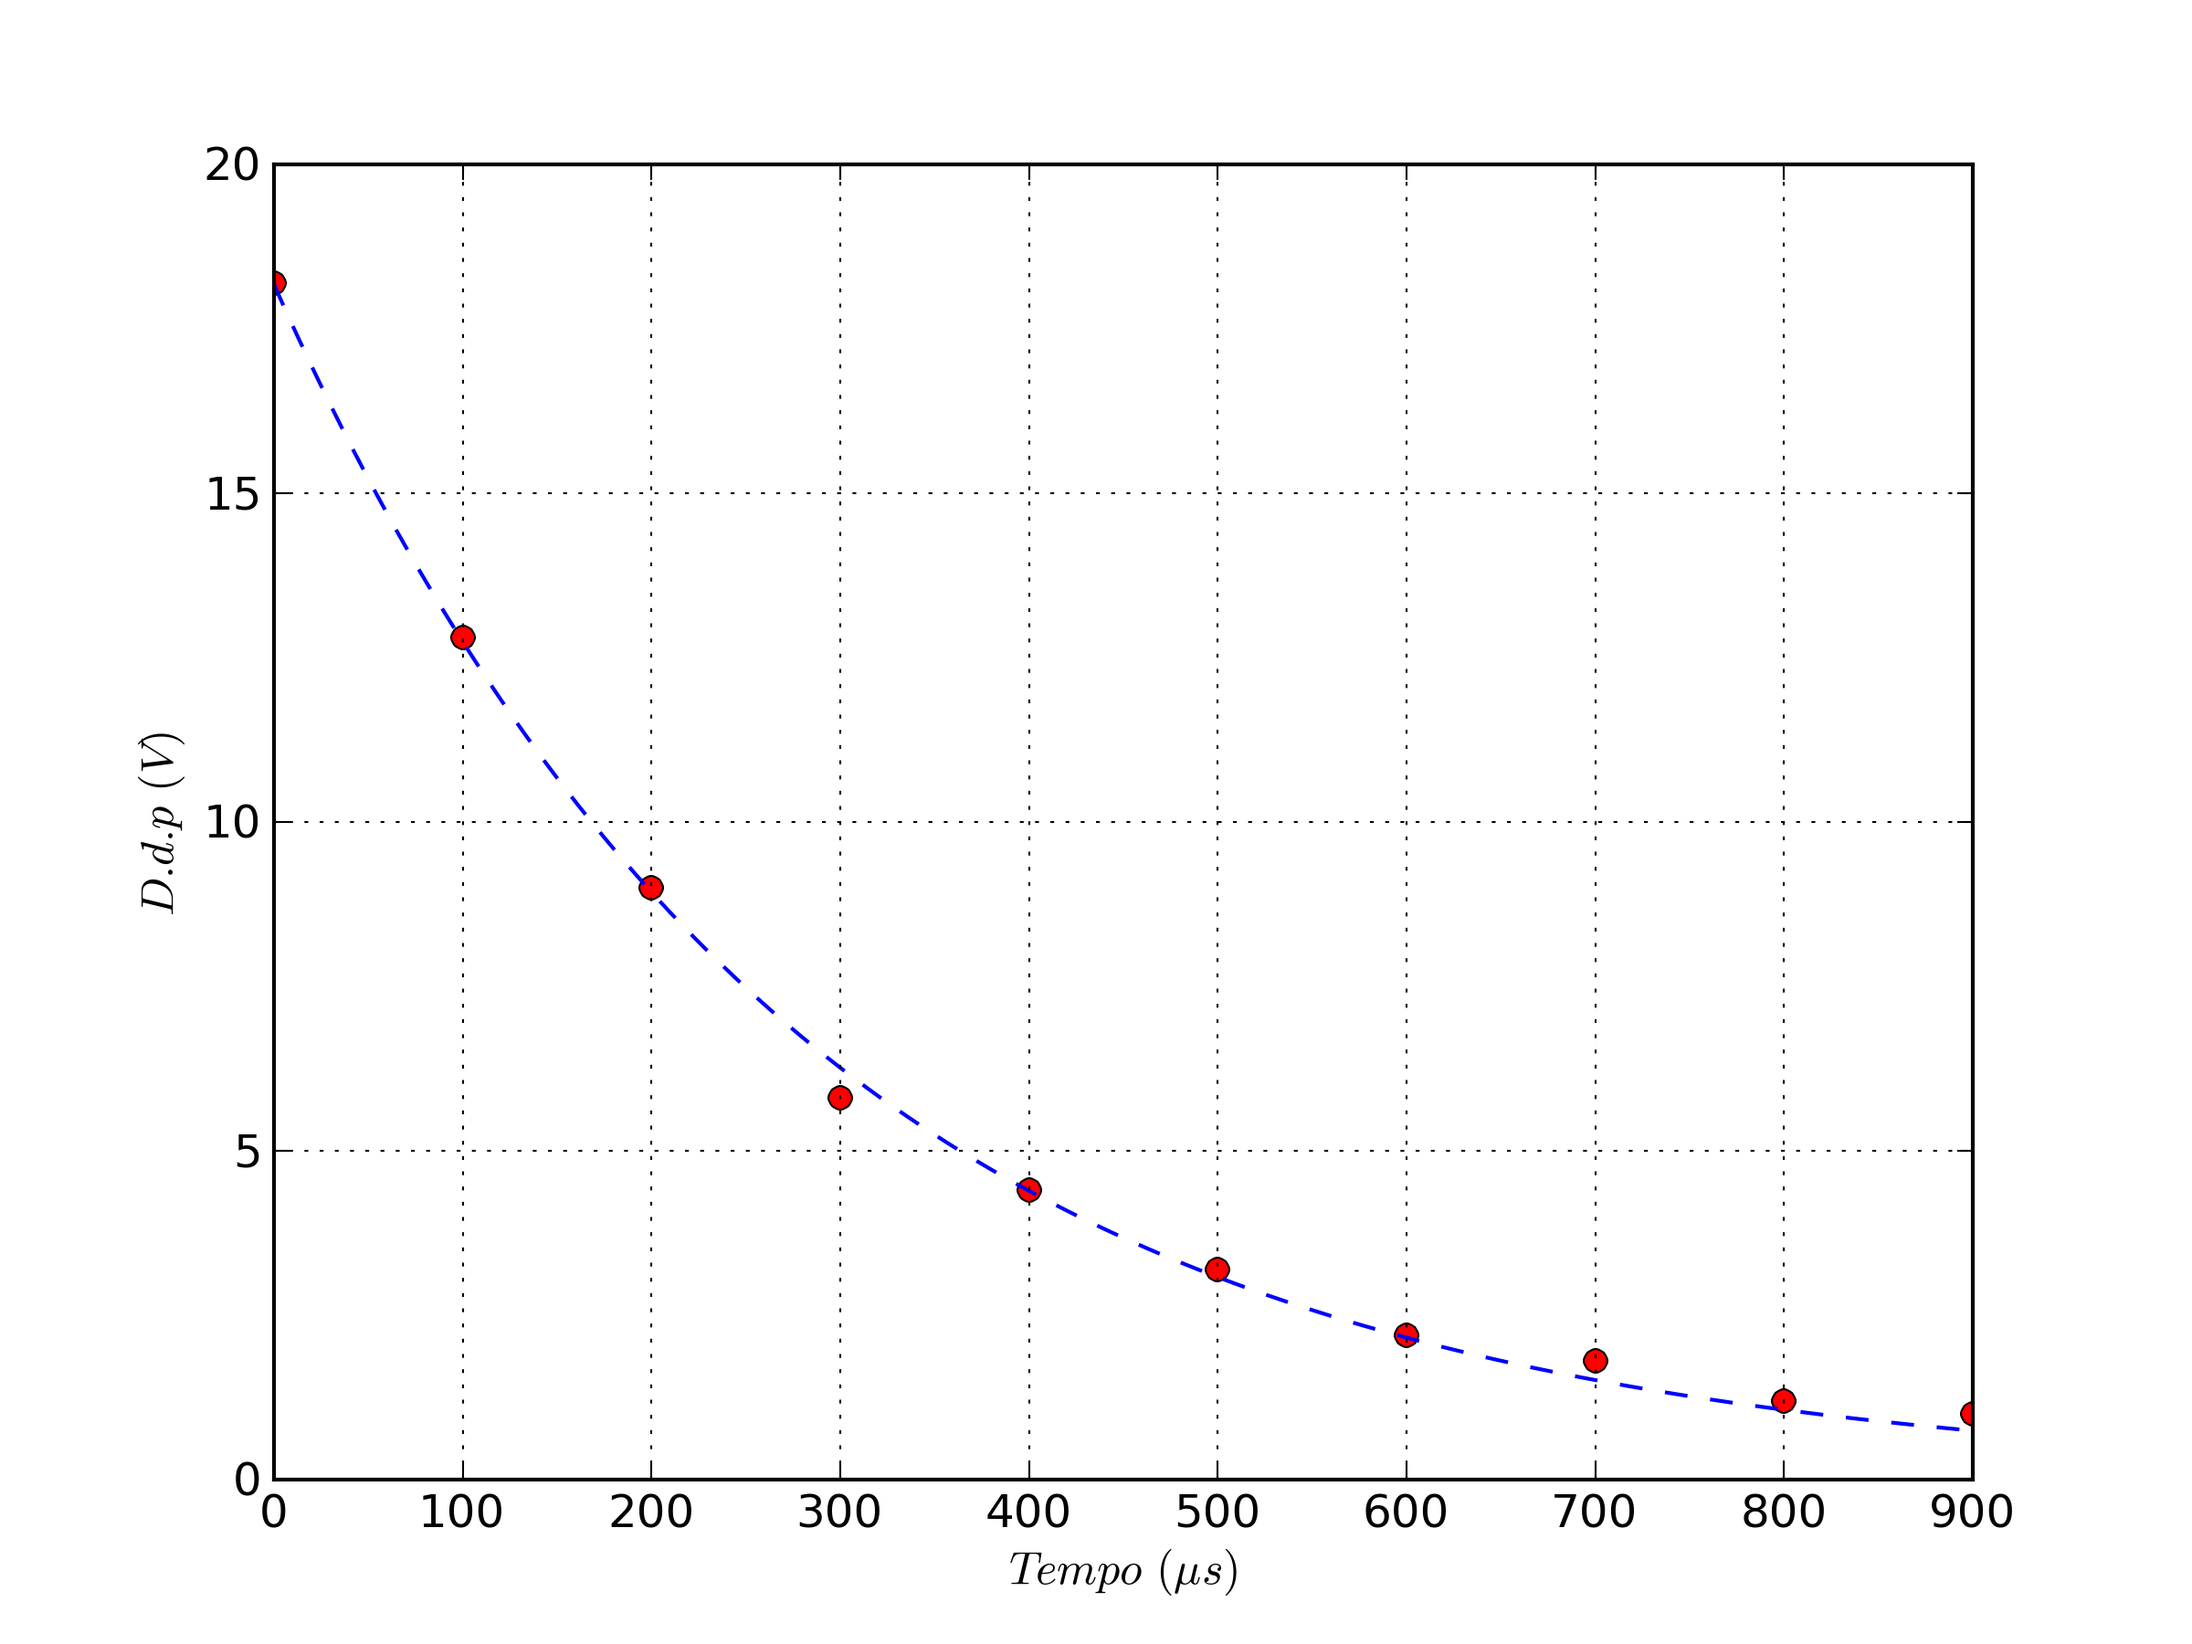
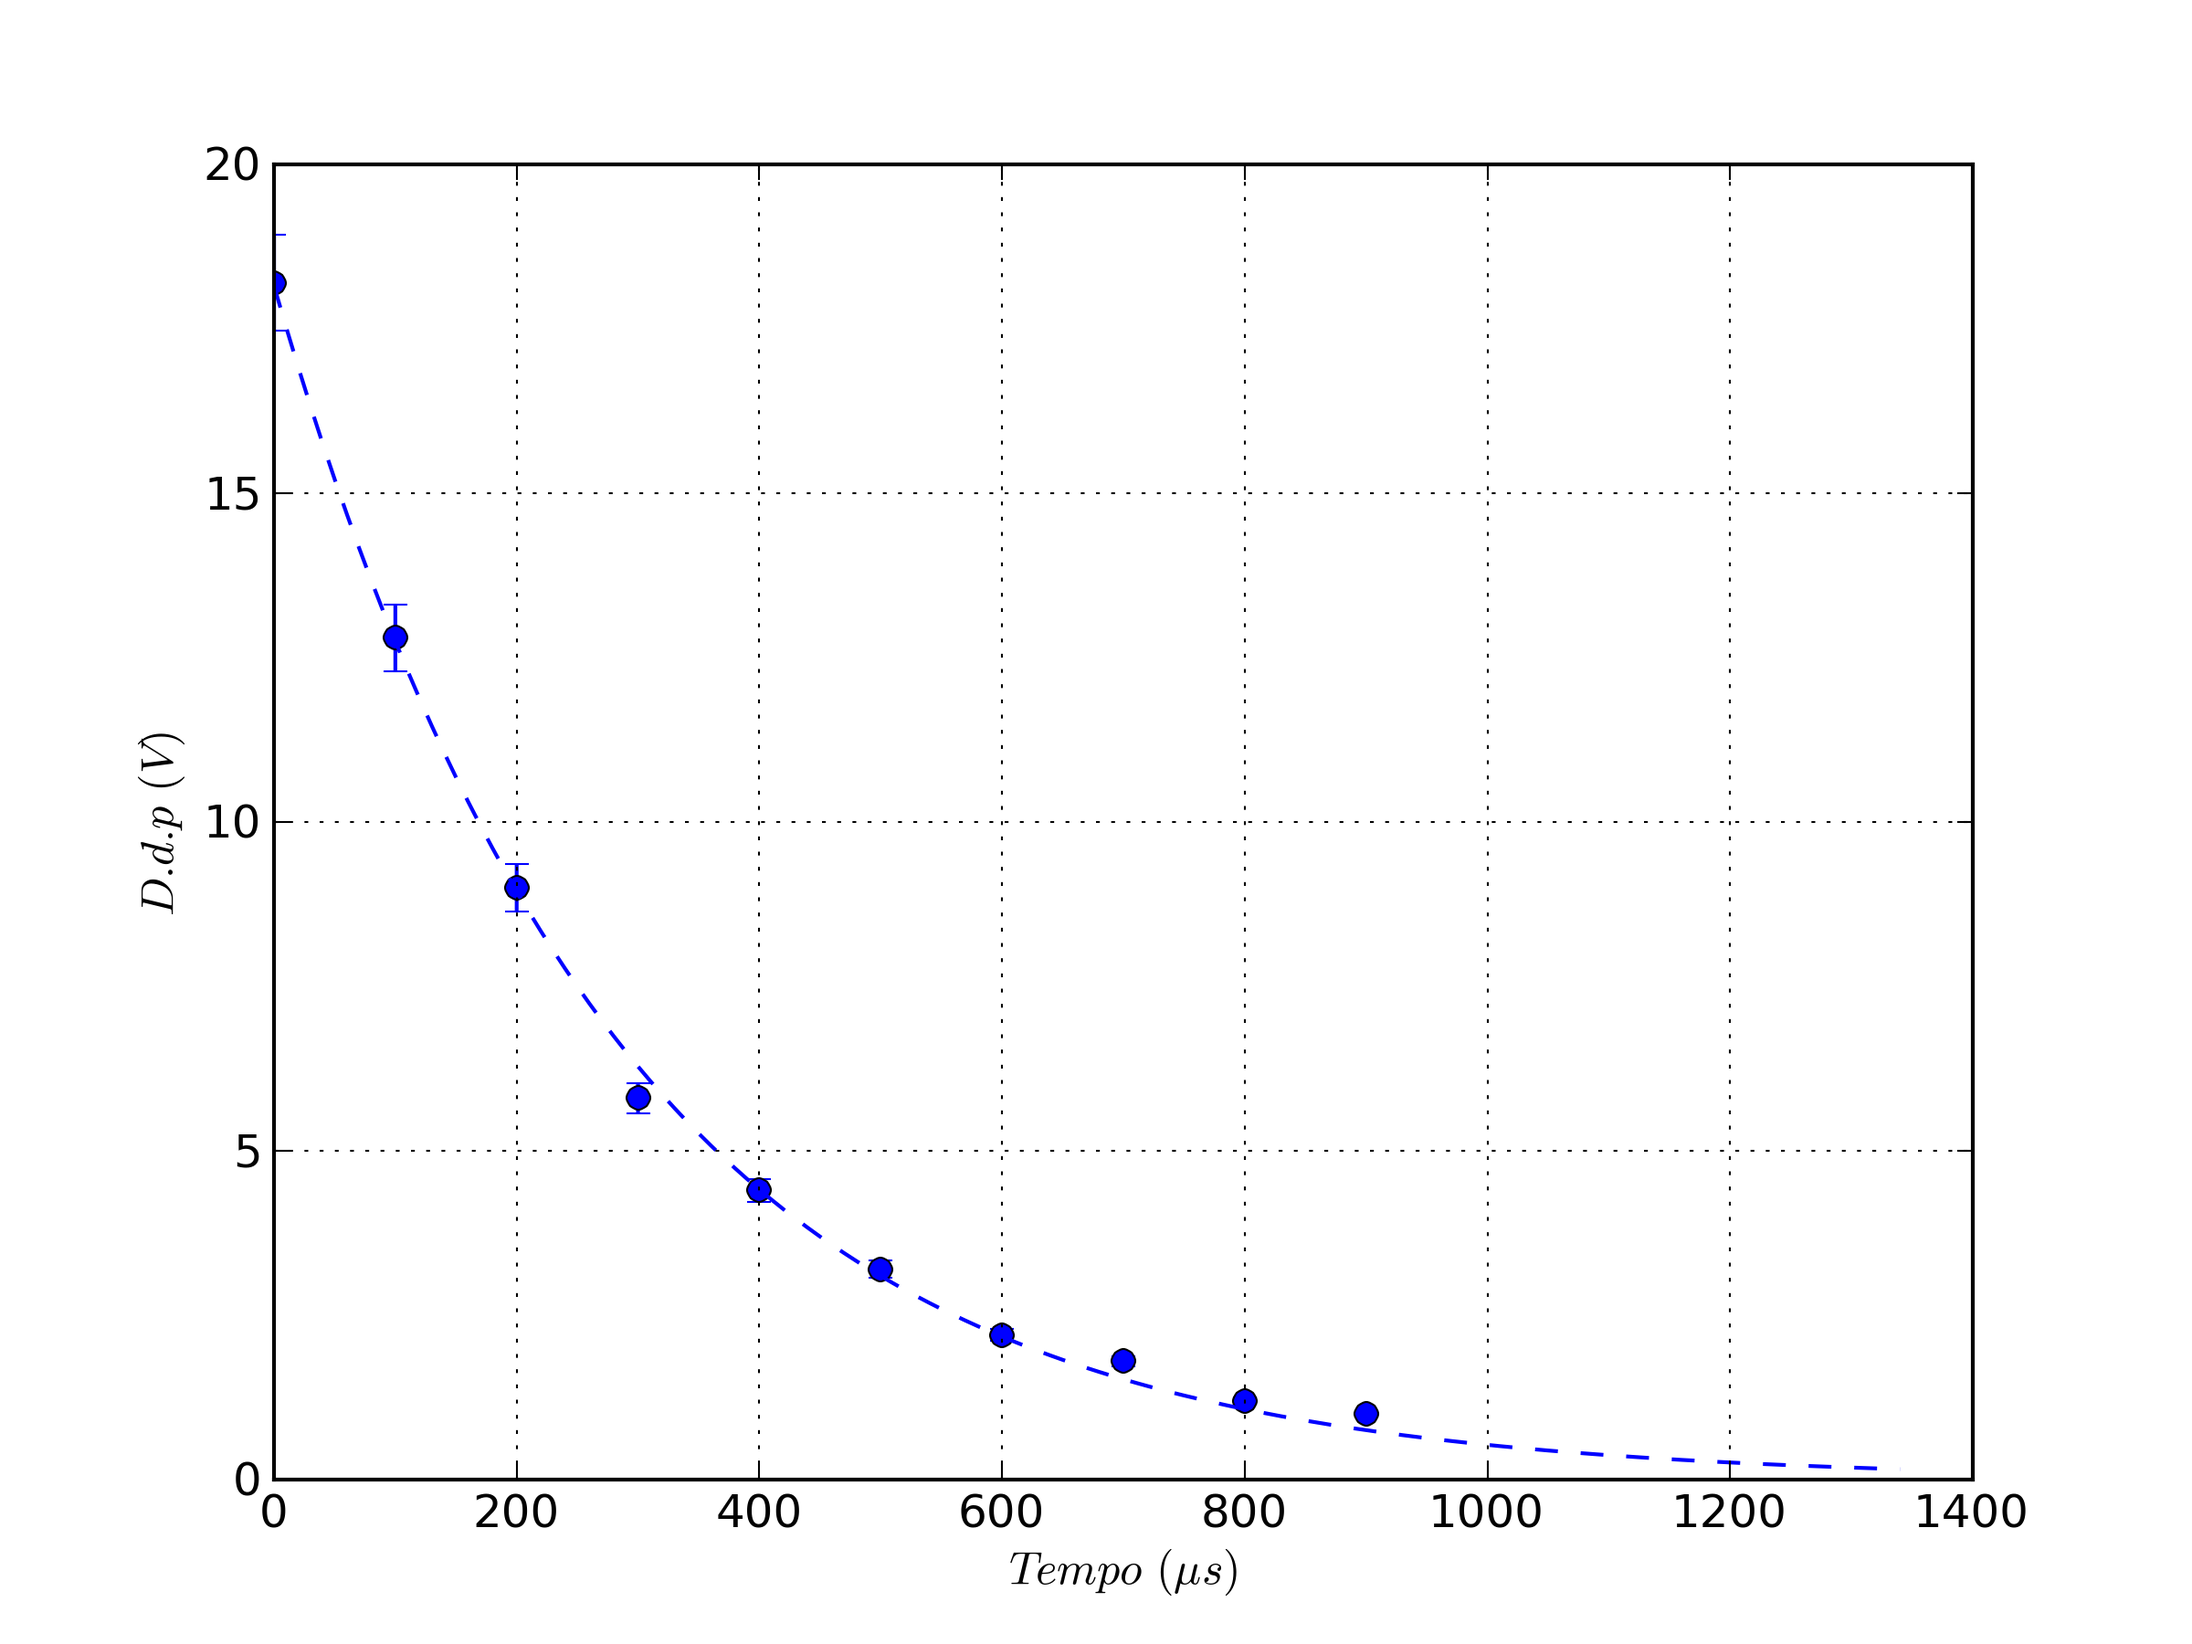
iii

diff --git a/c3.tex b/c3.tex
@@ -48,11 +48,47 @@ Interpoliamo i dati raccolti con la curva della carica di un condensatore:
 $$V_R = \varepsilon e^{-t/\tau}$$
 
 
+
+%Qui
+\begin{sagesilent}
+
+rct = np.recfromcsv('dati/C3/RCtau.csv')
+tempo = rct['t']
+volt = rct['v']
+yerr = volt*0.04
+
+def fu(P,x):
+    return P[0]*exp((-1./P[1])*x)
+    
+def fu1(x,v,t):
+    return v*exp(-x/t)
+    
+mymod = odr.Model(fu)
+mydata = odr.RealData(tempo,volt)
+
+myodr = odr.ODR(mydata, mymod, beta0=[20.,200.], maxit=5000)
+out = myodr.run()
+
+chi = chiquad(tempo,volt,fu1,ysigma=float(0.4),param=[out.beta[0],out.beta[1]])
+ 
+plt.clf()
+plt.errorbar(tempo,volt,yerr,np.zeros_like(yerr),'ro')
+xin = np.arange(min(tempo),1.5*max(tempo),10)
+yin = fu1(xin,out.beta[0],out.beta[1])
+plt.plot(xin,yin,'--')
+plt.ylabel(r"$D.d.p$ $(V)$ ")
+plt.xlabel(r"$Tempo$ $(\mu s)$")
+plt.grid(True)
+plt.savefig("grafici/C3/rct.png",dpi=300)
+
+\end{sagesilent}
+
+
 \begin{center}
- \includegraphics[scale=0.70]{grafici/C3/fitcond.png}
+ \includegraphics[scale=0.70]{grafici/C3/rct.png}
 \end{center}
 
-Il valore stimato dall'interpolazione è $\tau=281.7 \mu s$.
+Il valore stimato dall'interpolazione è $\tau=\sage{round(out.beta[1],2)}\pm \sage{round(out.sd_beta[1],2)} \mu s$.
 Valore atteso: $\tau=RC=248.5 \mu s$
 
 Nella misura abbiamo riscontrato un errore $\sigma_y= 0.4\ V$.
@@ -60,7 +96,7 @@ Per verificare l'accordo tra la legge e la distribuzione dei valori osservati op
 
 $$ \chi^2 = \frac{\sum{(y_i - f(x_i,\tau ))}}{\sigma_y^2} $$
 
-Dividendo per i gradi di libertà (7 in questo caso), otteniamo un $\tilde{\chi}^2 = 0.36 $ \\
+Dividendo per i gradi di libertà (7 in questo caso), otteniamo un $\tilde{\chi}^2 = \sage{round(chi,3)}$ \\
 Leggiamo dai valori tabulati la probabilità percentuale di ottenere un valore di $\tilde{\chi}^2 \geq {\tilde{\chi}_0}^2 $ (dati i gradi di libertà). Otteniamo una probabilità maggiore del $90\%$, maggiore della soglia di accettabilità, fissata al $5\%$. 
 
 
@@ -86,15 +122,51 @@ Interpoliamo i dati raccolti con la curva caratteristica della carica del circui
 
 $$V_R = \varepsilon \left( 1-e^{-t/\tau} \right)$$
 
-Il valore stimato dall'interpolazione è $\tau=16.05 \mu s$ \\
+%Qui
+\begin{sagesilent}
+ 
+rlt = np.recfromcsv('dati/C3/RLtau.csv')
+tempo = rlt['t']
+volt = rlt['v']
+yerr = volt*0.04
+
+def fu(P,x):
+    return P[0]*(1-exp((-1./P[1])*x))
+    
+def fu1(x,v,t):
+    return v*(1-exp(-x/t))
+    
+mymod = odr.Model(fu)
+mydata = odr.RealData(tempo,volt)
+
+myodr = odr.ODR(mydata, mymod, beta0=[20.,16.], maxit=5000)
+out = myodr.run()
+
+chi = chiquad(tempo,volt,fu1,ysigma=float(0.4),param=[out.beta[0],out.beta[1]])
+ 
+plt.clf()
+plt.errorbar(tempo,volt,yerr,np.zeros_like(yerr),'ro')
+xin = np.arange(min(tempo),1.5*max(tempo),10)
+yin = fu1(xin,out.beta[0],out.beta[1])
+plt.plot(xin,yin,'--')
+plt.ylabel(r"$D.d.p$ $(V)$ ")
+plt.xlabel(r"$Tempo$ $(\mu s)$")
+plt.grid(True)
+plt.savefig("grafici/C3/rlt.png",dpi=300)
+
+\end{sagesilent}
+
+
+
+Il valore stimato dall'interpolazione è $\tau=\sage{round(out.beta[1],2)} \pm \sage{round(out.sd_beta[1],2)}\mu s$ \\
 Non conoscendo a priori il valore di L non possiamo valutare l'accordo con il valore teorico: $\tau=\frac{L}{R}$.
 
 I dati graficati:
 \begin{center}
- \includegraphics[scale=0.70]{grafici/C3/fitindu.png}
+ \includegraphics[scale=0.70]{grafici/C3/rlt.png}
 \end{center}
 
-Otteniamo un valore: $\chi^2 = 0.38 $. Dati 7 gradi di libertà, $\tilde{\chi}^2 = 0.05$, per un accordo perfetto.
+Otteniamo un valore: $\chi^2 = \sage{round(chi,2)} $. Dati 7 gradi di libertà, $\tilde{\chi}^2 = 0.05$, per un accordo perfetto.
 
 
 \section{Corrente alternata}
@@ -154,6 +226,47 @@ Frequenza ($Hz$) & $V_{out}/V_{in}$ & $\phi$ \\
 Lasciamo C come parametro libero, e interpoliamo i valori raccolti di $V_{out}$ e $V_{in}$ in funzione della frequenza:
 
 $$\frac{V_{Ro}}{V_o} = \frac{R}{\sqrt{R^2+(\omega C)^{-2}}}$$
+
+\begin{sagesilent}
+
+rcf = np.recfromcsv('dati/C3/RCfun.csv',delimiter="\t")
+freq = rcf['frequenza']
+volt = rcf['v_out']/rcf['v_in']
+yerr = 0.05
+xerr = 0
+
+print freq
+print volt
+
+var('x,C')
+def funz(x, C):
+    return 667/(((667)^2)+((1./x)^2*1/(2*pi*C)^2))^(1/2)
+    
+def func(P,x):
+    return 667/(((667)^2)+((1./x)^2*1/(2*pi*P[0])^2))^(1/2)
+    
+mymod = odr.Model(func)
+mydata = odr.RealData(freq,volt)
+
+myodr = odr.ODR(mydata, mymod, beta0=[20.,16.], maxit=5000)
+out = myodr.run()
+
+chi = chiquad(freq,volt,funz,ysigma=float(0.05),param=[out.beta[0]])
+ 
+ 
+plt.clf()
+
+xin = np.arange(min(freq),1.5*max(freq),10)
+yin = funz(xin,out.beta[0])
+plt.plot(xin,yin,'--')
+plt.ylabel(r"$D.d.p$ $(V)$ ")
+plt.xlabel(r"$Tempo$ $(\mu s)$")
+plt.grid(True)
+plt.savefig("grafici/C3/ddpcond.png",dpi=300)
+
+ 
+\end{sagesilent}
+
 
 Dal fit otteniamo: $C=360 \cdot 10^{-9} F $ in ottimo accordo con il valore noto.
 

diff --git a/esperimenti.tex b/esperimenti.tex
@@ -19,6 +19,7 @@
 \usepackage{textcomp}
 \usepackage{sagetex}
 
+
 \usepackage{hyperref}
 
 \definecolor{listinggray}{gray}{0.9}
@@ -66,6 +67,43 @@
 
 \tableofcontents
 
+%INIZIALIZZAZIONE e LIBRERIE
+\begin{sagesilent}
+#Importo librerie necessarie
+import numpy as np
+from scipy import odr
+import matplotlib.pyplot as plt
+import matplotlib.mlab as ml
+
+#classica funzione chiquadrato, non cancellare
+def chiquad(xdata, ydata, yfunc, ysigma = (), param=()):
+    yteo = yfunc(xdata, *param)
+    ddof = len(xdata) - 1 - len(param)
+    if (np.isscalar(ysigma)):
+        ys = np.ones_like(xdata)*ysigma
+    else:
+        ys = ysigma
+ 
+    if (len(ys)):
+        return sum(((ydata-yteo)/ys)**2)
+    else:
+        return sum((ydata-yteo)**2/yteo)
+
+        
+#Funzione stampadati
+def stampa_dati(datiarr, header):
+  s = r"\begin{tabular}{c*{" + "%d" % (len(datiarr.dtype)-1)
+  s += r"}{|c}}"
+  s += "%s \\\\" % (header)
+  s += r"\midrule"
+  for i in range(0, len(datiarr)):
+    a = ["%.3G" %x for x in datiarr[i]]
+    s += "%s \\\\" % join(a, "&")
+  s += r"\end{tabular}"
+  return s
+        
+\end{sagesilent}
+
 
 
 %\include{c1}
@@ -75,11 +113,12 @@
 %\include{spettrometro}
  %\include{c1}
 % \include{c2}
-%\include{c3}
+\include{c3}
 
 
 
-\include{spettrometro}
+
+%\include{spettrometro}
  %\include{c1}
 % \include{c2}
 %\include{c4}

diff --git a/spettrometro.tex b/spettrometro.tex
@@ -158,12 +158,12 @@ mymodel = odr.Model(func)
 
 mydata = odr.RealData(l,n)
 
-myodr = odr.ODR(mydata, mymodel, beta0=[1.,1.],  maxit=5000)
+myodr = odr.ODR(mydata, mymodel, beta0=[1.,1.], maxit=1000)
 myout = myodr.run()
 
 a = myout.beta[0]
 b = myout.beta[1]
-chiquadrato = chiquad(np.array(l), n, fun, ysigma=float(0.05), param=[a,b]) 
+chiquadrato = chiquad(np.array(l), n, fun, ysigma=l*0.01, param=[a,b]) 
 
    
 plt.clf()
@@ -321,26 +321,16 @@ lcalc= np.array([float(l(enne=dato,digits=4).subs(b=coeff1, a=coeff2)  ) for dat
 
 
 
-print dati
-print ncalc
-print errorsarr
-print lcalc
+#print dati
+#print ncalc
+#print errorsarr
+#print lcalc
 #print errorl
 dati = ml.rec_append_fields(dati, "n", ncalc)
 dati = ml.rec_append_fields(dati, "error_n", errorsarr)
 dati = ml.rec_append_fields(dati, "l", lcalc)
 #dati = ml.rec_append_fields(dati, "error_l", errorl)
 
-def stampa_dati(datiarr, header):
-  s = r"\begin{tabular}{c*{" + "%d" % (len(datiarr.dtype)-1)
-  s += r"}{|c}}"
-  s += "%s \\\\" % (header)
-  s += r"\midrule"
-  for i in range(0, len(datiarr)):
-    a = ["%.3G" %x for x in datiarr[i]]
-    s += "%s \\\\" % join(a, "&")
-  s += r"\end{tabular}"
-  return s
 \end{sagesilent}
 
 \begin{center}
